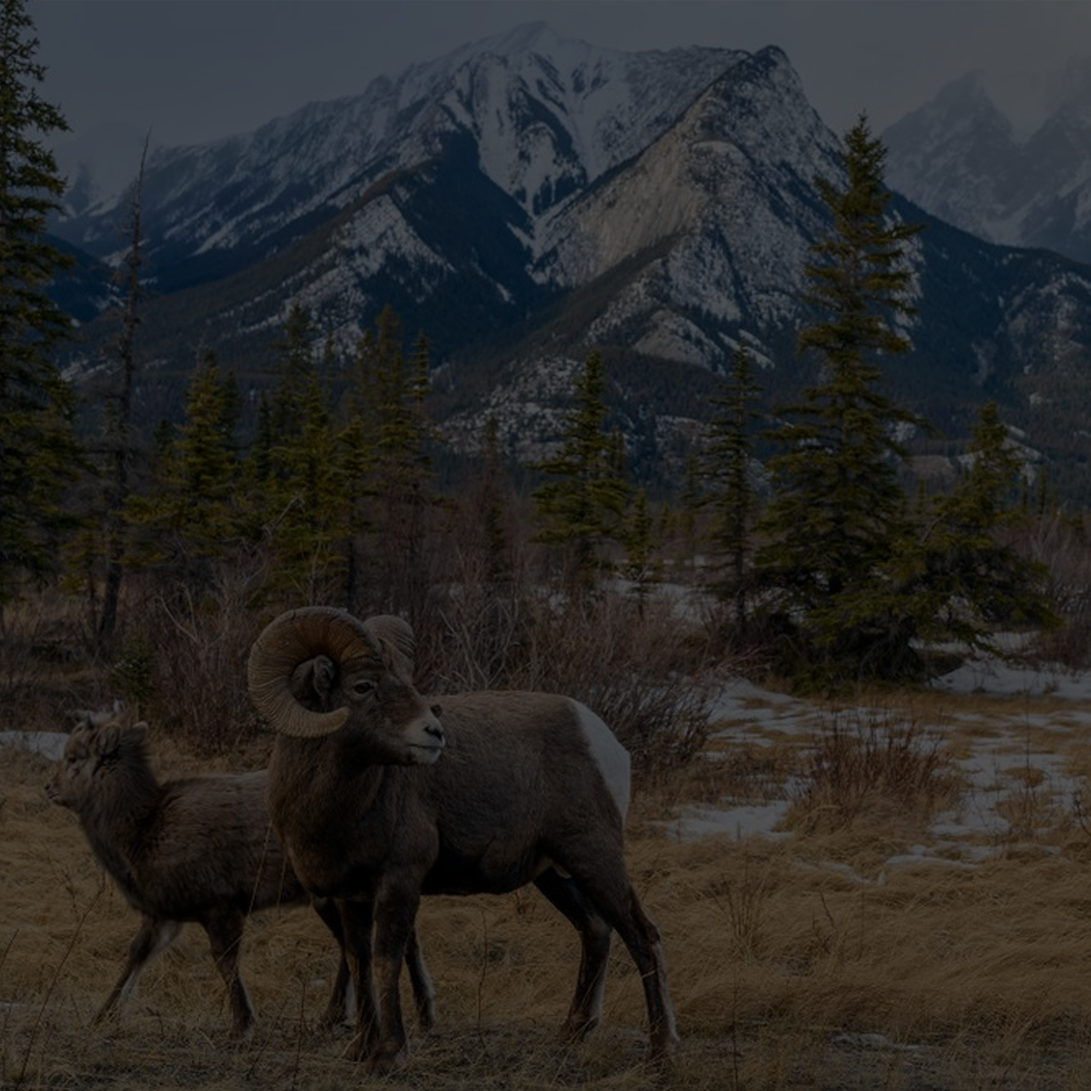
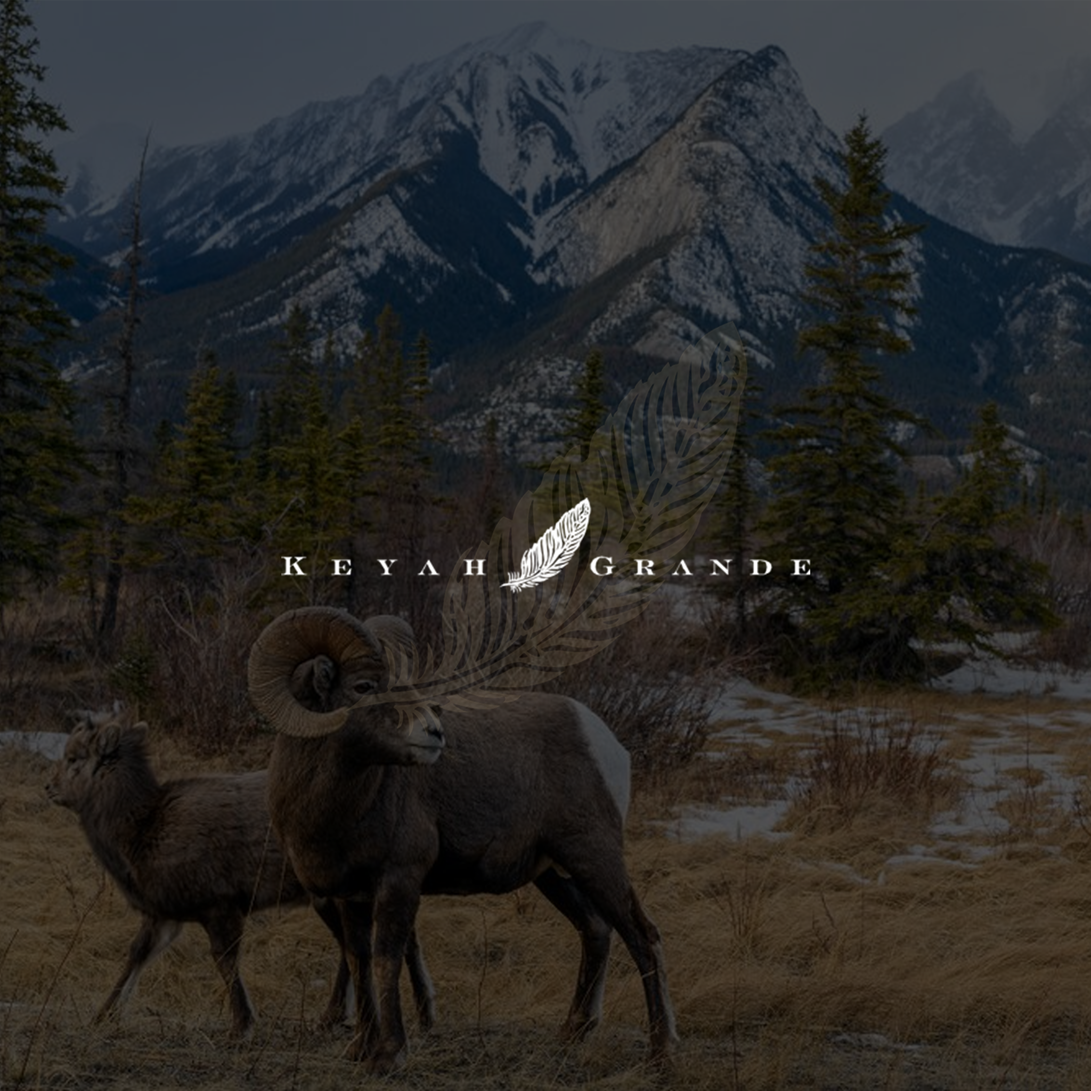
27/7/2021 4:48 pm

Changed region(s): [[0.3438, 0.2812, 0.75, 0.625], [0.3438, 0.5938, 0.4062, 0.6562], [0.25, 0.5, 0.3125, 0.5312]]

diff --git a/lib/Application/splash_screen.dart b/lib/Application/splash_screen.dart
@@ -14,14 +14,14 @@ class SplashScreen extends StatefulWidget {
 }
 
 class _SplashScreenState extends State<SplashScreen> {
-  double finalWidth=300;
+  double finalWidth = 560;
 
   Widget loadingContainer() {
     return Container(
       height: hDimen(15),
-      width: hDimen(400),
+      width: hDimen(560),
       decoration: BoxDecoration(
-        color:Colors.white /*Color(0xFFf2f2f2)*/,
+        color: Colors.white /*Color(0xFFf2f2f2)*/,
         borderRadius: BorderRadius.circular(hDimen(20)),
         border: Border.all(
           color: Color(0xFFf2f2f2),
@@ -29,14 +29,16 @@ class _SplashScreenState extends State<SplashScreen> {
         ),
       ),
       child: AnimatedPadding(
-        duration: Duration(seconds: 3,),
-        padding: EdgeInsets.only(right:finalWidth),
+        duration: Duration(
+          seconds: 3,
+        ),
+        padding: EdgeInsets.only(right: finalWidth),
         child: AnimatedContainer(
           duration: Duration(seconds: 3),
           height: hDimen(2),
           width: 1,
           decoration: BoxDecoration(
-            color:Color(0xFF99856a),
+            color: Color(0xFF99856a),
             borderRadius: BorderRadius.circular(hDimen(20)),
           ),
         ),
@@ -46,16 +48,19 @@ class _SplashScreenState extends State<SplashScreen> {
 
   @override
   void initState() {
-
     Timer(Duration(seconds: 1), () {
-      while (finalWidth!=0) {
+      while (finalWidth > 0) {
         setState(() {
-          finalWidth = finalWidth-1;
+          finalWidth = finalWidth - 1;
         });
       }
     });
 
-    Timer(Duration(seconds: 4), () {
+    Timer(
+        Duration(
+          seconds: 4,
+          milliseconds: 280,
+        ), () {
       Navigator.pushReplacementNamed(
         context,
         MuseumRouter.ROUTE_HOME,
@@ -74,7 +79,7 @@ class _SplashScreenState extends State<SplashScreen> {
             decoration: BoxDecoration(
               image: DecorationImage(
                 image: AssetImage(
-                  "assets/Load.jpg",
+                  "assets/loader-bg.png",
                 ),
                 fit: BoxFit.cover,
               ),
@@ -82,11 +87,11 @@ class _SplashScreenState extends State<SplashScreen> {
           ),
           Padding(
             padding: EdgeInsets.only(
-              bottom: hDimen(20),
+              top: hDimen(170),
             ),
             child: Align(
               child: loadingContainer(),
-              alignment: Alignment.bottomCenter,
+              alignment: Alignment.center,
             ),
           ),
         ],

diff --git a/lib/Application/Dashboard.dart b/lib/Application/Dashboard.dart
@@ -424,7 +424,6 @@ class _HomeScreenState extends State<HomeScreen> {
                   Padding(
                     padding: EdgeInsets.only(
                       left: hDimen(30),
-                      // top: hDimen(10),
                       bottom: hDimen(20),
                     ),
                     child: Text(
